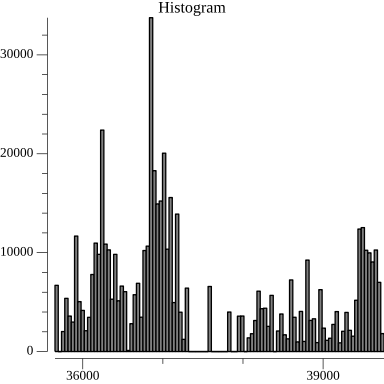
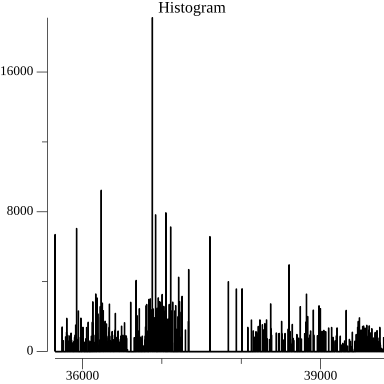
refactor: market -> volume profile

diff --git a/trader/day/marketprofile.go b/trader/day/marketprofile.go
@@ -8,10 +8,11 @@ import (
 	"golang.org/x/exp/slices"
 )
 
+// DefaultValueAreaPercentage is the percentage of the total volume used to calculate the value area.
 const DefaultValueAreaPercentage = 0.7
 
-// MarketProfile is a histogram of market price and volume for a session.
-// Intent is to show the price points with most volume during the session.
+// VolumeProfile is a histogram of market price and volume.
+// Intent is to show the price points with most volume during a period.
 // The profile gives key features such as:
 //
 // Point of control (POC)
@@ -23,7 +24,7 @@ const DefaultValueAreaPercentage = 0.7
 // Session High
 //
 // Session Low
-type MarketProfile struct {
+type VolumeProfile struct {
 	Bins []float64
 	Hist []float64
 
@@ -34,79 +35,74 @@ type MarketProfile struct {
 	Low  float64
 }
 
-type pricevol struct {
+type level struct {
 	Price  float64
 	Volume float64
 }
 
-// NewMarketProfile creates a new MarketProfile for the given price series.
-func NewMarketProfile(nBins int, prices, volumes []float64) *MarketProfile {
+// NewVolumeProfile creates a new profile for the given price and volume series.
+// nBins is the number of bins to use, higher numbers for greater accurracy.
+// Prices and volumes must be of the same length.
+func NewVolumeProfile(nBins int, prices, volumes []float64) *VolumeProfile {
 
-	var mp MarketProfile
-	mp.Bins = make([]float64, nBins+1)
+	var vp VolumeProfile
 
-	pvs := make([]pricevol, len(prices))
+	levels := make([]level, len(prices))
 	for i := range prices {
-		pvs[i] = pricevol{prices[i], volumes[i]}
+		levels[i] = level{prices[i], volumes[i]}
 	}
-	slices.SortFunc(pvs, func(i, j pricevol) bool {
+	slices.SortFunc(levels, func(i, j level) bool {
 		return i.Price < j.Price
 	})
 
-	sort.Float64s(prices)
-	mp.High = floats.Max(prices)
-	mp.Low = floats.Min(prices)
-	mp.Bins = floats.Span(mp.Bins, mp.Low, mp.High+1)
+	sortedPrices := prices
+	sort.Float64s(sortedPrices)
+	vp.High = floats.Max(sortedPrices)
+	vp.Low = floats.Min(sortedPrices)
+	vp.Bins = make([]float64, nBins+1)
+	vp.Bins = floats.Span(vp.Bins, vp.Low, vp.High+1)
 
 	sortedVolumes := make([]float64, len(volumes))
-	for i := range pvs {
-		sortedVolumes[i] = pvs[i].Volume
+	for i := range levels {
+		sortedVolumes[i] = levels[i].Volume
 	}
 
-	//spew.Dump(prices[floats.MaxIdx(sortedVolumes)])
+	vp.Hist = stat.Histogram(nil, vp.Bins, sortedPrices, sortedVolumes)
 
-	mp.Hist = stat.Histogram(nil, mp.Bins, prices, sortedVolumes)
+	pocIdx := floats.MaxIdx(vp.Hist)
+	vp.POC = vp.Bins[pocIdx]
 
-	pocIdx := floats.MaxIdx(mp.Hist)
-	mp.POC = stat.Mean([]float64{mp.Bins[pocIdx]}, nil)
+	vaTotalVol := floats.Sum(sortedVolumes) * DefaultValueAreaPercentage
 
-	vaTotalVol := floats.Sum(mp.Hist) * DefaultValueAreaPercentage
-
-	vaCumVol := mp.Hist[pocIdx]
-	var vaPOCOffset int
+	vaCumVol := vp.Hist[pocIdx]
+	var vaPOCOffsetIdx int
 
 	for i := 1; vaCumVol <= vaTotalVol; i++ {
-		vahVol := mp.Hist[pocIdx+i] + mp.Hist[pocIdx+(i+1)]
-		valVol := mp.Hist[pocIdx-i] + mp.Hist[pocIdx-(i+1)]
 
-		/*	//hVolIdx, lVolIdx := 1, 1
-			//
-					if pocIdx+hVolIdx < len(mp.Hist) {
-			/			vahVol = mp.Hist[pocIdx+hVolIdx]
-					}
-					if pocIdx-lVolIdx >= 0 {
-						valVol = mp.Hist[pocIdx-lVolIdx]
-					}*/
-
-		switch {
-		case vahVol > valVol:
-			//vahIdx++
-			//valIdx++
-			vaCumVol += vahVol
-		case vahVol <= valVol:
-			//valIdx--
-			//vahIdx++
-			vaCumVol += valVol
-			//case vahVol == valVol:
-			//	valIdx++
-			//	vaCumVol += valVol
+		var vahVol, valVol float64
+		if (pocIdx + i) <= len(vp.Hist)-1 {
+			vahVol = vp.Hist[pocIdx+i]
+		}
+		if (pocIdx - i) >= 0 {
+			valVol = vp.Hist[pocIdx-i]
 		}
 
-		vaPOCOffset = i
+		vaCumVol += (vahVol + valVol)
+		vaPOCOffsetIdx = i
 	}
 
-	mp.VAH = stat.Mean([]float64{mp.Bins[pocIdx+vaPOCOffset]}, nil)
-	mp.VAL = stat.Mean([]float64{mp.Bins[pocIdx-vaPOCOffset]}, nil)
+	vahIdx := pocIdx + vaPOCOffsetIdx
+	if vahIdx > len(vp.Bins)-1 {
+		vahIdx = len(vp.Bins) - 1
+	}
 
-	return &mp
+	valIdx := pocIdx - vaPOCOffsetIdx
+	if valIdx < 0 {
+		valIdx = 0
+	}
+
+	vp.VAH = vp.Bins[vahIdx]
+	vp.VAL = vp.Bins[valIdx]
+
+	return &vp
 }

diff --git a/trader/day/marketprofile_test.go b/trader/day/marketprofile_test.go
@@ -11,9 +11,6 @@ import (
 	"github.com/colngroup/zero2algo/ta"
 	"github.com/davecgh/go-spew/spew"
 	"github.com/stretchr/testify/assert"
-	"gonum.org/v1/plot"
-	"gonum.org/v1/plot/plotter"
-	"gonum.org/v1/plot/vg"
 )
 
 const testdataPath string = "../../internal/testdata/"
@@ -26,7 +23,7 @@ func TestNewMarketProfile(t *testing.T) {
 
 	wantHist := []float64{20, 0, 0, 0, 0, 18, 41, 0, 0, 5}
 
-	act := NewMarketProfile(giveBins, givePrices, giveVolumes)
+	act := NewVolumeProfile(giveBins, givePrices, giveVolumes)
 
 	assert.Equal(t, wantHist, act.Hist)
 
@@ -42,17 +39,6 @@ func TestMarketProfileWithPriceFile(t *testing.T) {
 
 	prices, err := market.NewCSVKlineReader(csv.NewReader(file)).ReadAll()
 	assert.NoError(t, err)
-
-	/*dayStart := time.Date(2022, time.April, 30, 0, 0, 0, 0, time.UTC)
-	var dayStartIdx int
-	for i := range prices {
-		if prices[i].Start.After(dayStart) {
-			dayStartIdx = i - 1
-			break
-		}
-	}
-
-	//prices = prices[dayStartIdx:]*/
 	priceLevels := make([]float64, len(prices))
 	vols := make([]float64, len(prices))
 	for i := range prices {
@@ -60,42 +46,8 @@ func TestMarketProfileWithPriceFile(t *testing.T) {
 		vols[i] = util.RoundTo(prices[i].Volume, 1.0)
 	}
 
-	//spew.Dump(priceLevels[floats.MaxIdx(vols)])
-	//spew.Dump(hlc3s, vols)
-
 	spew.Dump(prices[0].Start, prices[len(prices)-1].Start)
-	mp := NewMarketProfile(100, priceLevels, vols)
+	mp := NewVolumeProfile(1440, priceLevels, vols)
 
 	spew.Dump(mp.POC, mp.VAH, mp.VAL)
-
-	// Make a plot and set its title.
-	p := plot.New()
-
-	p.Title.Text = "Histogram"
-
-	// Create a histogram of our values drawn
-	// from the standard normal.
-
-	//pts := make([]plotter.XYer, len(mp.Hist))
-	//for i := range pts {
-	//	xys := make(plotter.XYs, len(mp.Hist))
-	//	pts[i] = plotter.XYValues
-	//
-
-	var xys plotter.XYs
-	for i := range mp.Hist {
-		xys = append(xys, plotter.XY{X: mp.Bins[i], Y: mp.Hist[i]})
-	}
-
-	h, err := plotter.NewHistogram(xys, len(mp.Bins))
-	if err != nil {
-		panic(err)
-	}
-
-	p.Add(h)
-
-	// Save the plot to a PNG file.
-	if err := p.Save(4*vg.Inch, 4*vg.Inch, "hist.png"); err != nil {
-		panic(err)
-	}
 }
